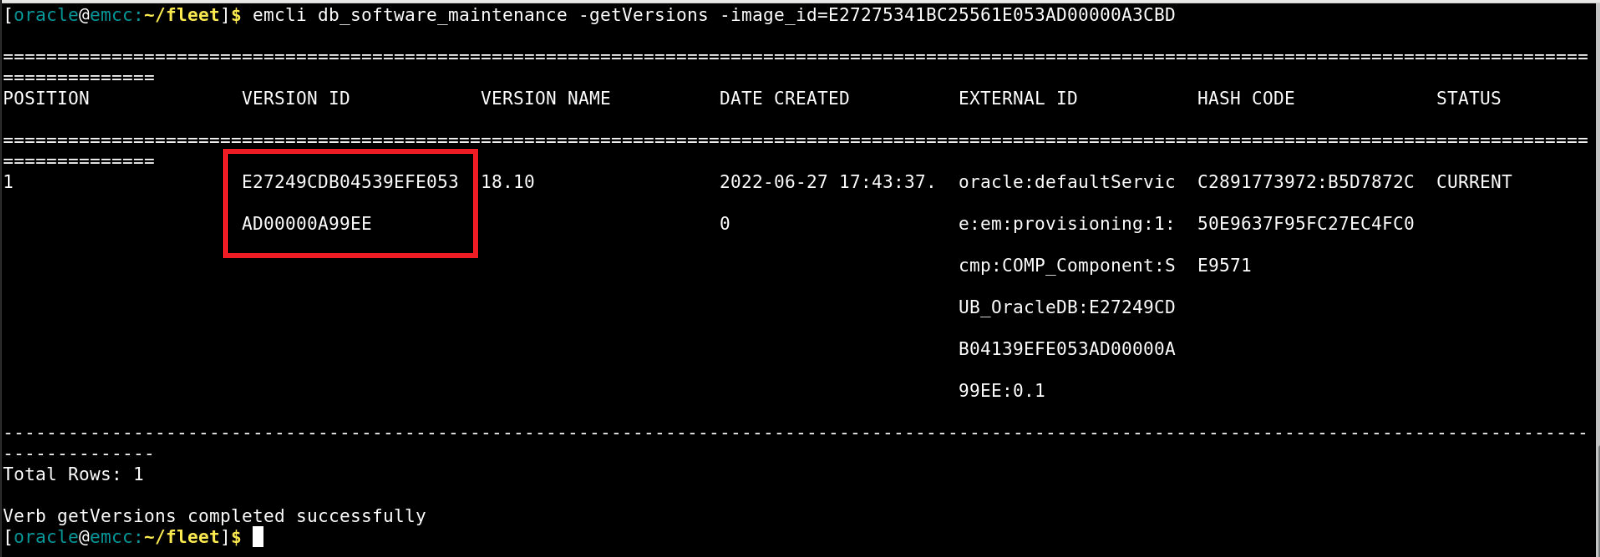
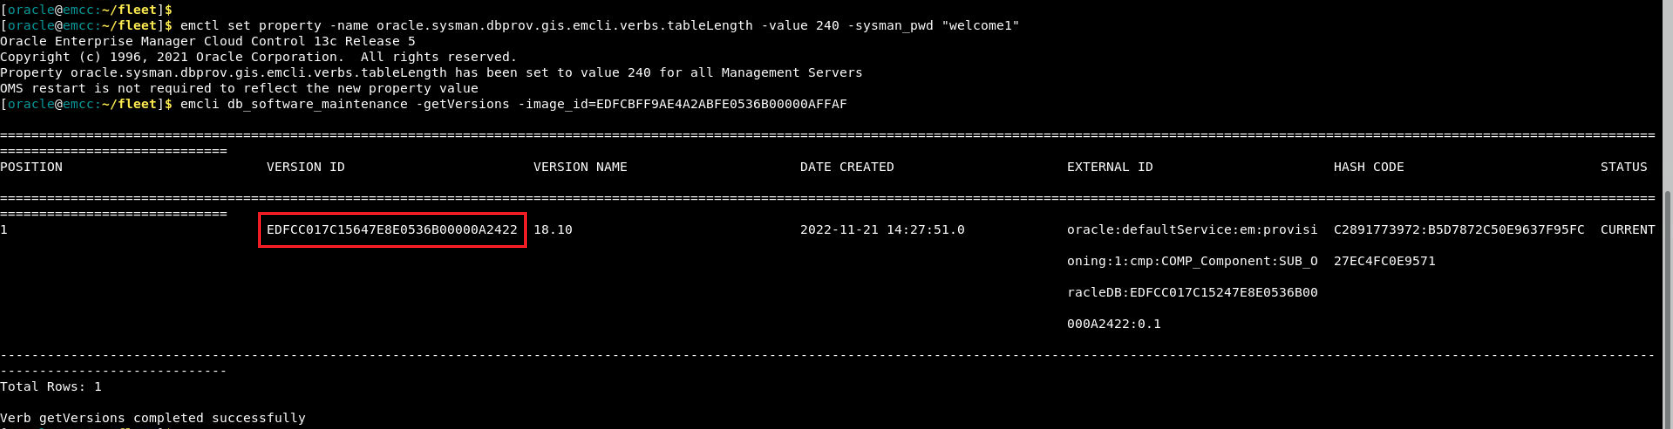
WMS ID 10001  (#115)
* RU07 changes

* RU07 changes

* RU07 changes

* feedback changes

* new screen captures

* new images

* new images

* new images

* new UI image capture

* Update new-deploy-1.png

* new images

* updates ru07

* RU07 - patch UI updates - new screenshots and instructions

* RU07 changes

* RU07 changes - new screenshots and instructions

* RU07 changes - new screenshots and instructions

* RU07 changes

* RU07 changes

* cleanup fix

* cleanup changes

* cleanup updates

* cleanup changes

* cleanupchanges

* cleaup changes

* Incorporated Shiva's comment

* Incorporaetd Shiva's feedback

* changes

* format changes

* format changes

* format changes

* format

* updates from shiva

* updates

* final changes

* all ru07 changes final

* ru07 changes

* ru07 changes

* formatting issues

* formatting changes

* formatting issues

* formatting changes

* formatting issues

* formatting issues

* image changes

* Suggestions from Harish

* Updates - Harish

* Updates - Harish

* Review updates - Harish

* Updates - Harish

* Updates - Harish

* updates as suggested by Harish

* Updates

* updates

* updates

* Feedback - Shiva

* Pull Request recommendations

* Pull Request Changes

* Images not visible

* Images restored

* Pull request changes

* image issue

* Pull request changes

* Pull request chnages

* Pull request changes

* Pull request changes

* Pull request changes

* Pull request changes

* Pull request changes

* Made changes as per Pull Request
[…]

diff --git a/enterprise-manager/emcc/em-fleet-maintenance-patching-ui/em-fleet-maintenance-patching-ui.md b/enterprise-manager/emcc/em-fleet-maintenance-patching-ui/em-fleet-maintenance-patching-ui.md
@@ -225,9 +225,21 @@ You will see the ***hr.subnet.vcn.oraclevcn.com*** container database has a plug
 
     ![](images/dp-1-completed.png "DP completed ")
 
-7. List Available Gold Images. Execute the following commands in the terminal to see the list of Gold Images available for deployment, locate ‘Tier \#2 SI DB Linux64*’* in the emcli command output:
+7. List Available Gold Images.
 
-    ```DP completed
+    Default window size of terminal will render output in multiple lines. Its is thus recommended to increase the terminal window size by clicking on maximize option.
+
+    ![](images/window_size.png "Maximize window ")
+
+    Execute the following command to increase the column width.
+    ```
+    <copy>emctl set property -name oracle.sysman.dbprov.gis.emcli.verbs.tableLength -value 210 -sysman_pwd "welcome1"</copy>
+    ```
+    ![](images/resize-width.png "resize command")
+
+    Now, we can execute the getimages command and it will return output in single line. Execute the following commands in the terminal to see the list of Gold Images available for deployment, locate ‘Tier \#2 SI DB Linux64*’* in the emcli command output:
+
+    ```
     <copy>emcli db_software_maintenance -getImages</copy>
     ```
 
@@ -237,9 +249,12 @@ You will see the ***hr.subnet.vcn.oraclevcn.com*** container database has a plug
 
     After retrieving a list of the available images, one can view a list of versions available for a specific image with the following command:
 
-    If the image id is same as the one highlighted above, you may use the below command
+    If the image id is same as the one highlighted above, you may use the below command. First, we will again resize the column width.
     ```
-    <copy>emcli db_software_maintenance -getVersions -image_id=E27275341BC25561E053AD00000A3CBD</copy>
+    <copy>emctl set property -name oracle.sysman.dbprov.gis.emcli.verbs.tableLength -value 240 -sysman_pwd "welcome1"</copy>
+    ```
+    ```
+    <copy>emcli db_software_maintenance -getVersions -image_id=EDFCBFF9AE4A2ABFE0536B00000AFFAF</copy>
     ```   
 
     else make changes in the below command and execute it.
@@ -261,7 +276,7 @@ You will see the ***hr.subnet.vcn.oraclevcn.com*** container database has a plug
     - Review and execute below emcli command. If the image id is same as the one highlighted above, you may use the below command:  
 
     ```
-    <copy>emcli db_software_maintenance -checkApplicability -image_id=E27275341BC25561E053AD00000A3CBD -target_list=hr.subnet.vcn.oraclevcn.com -target_type=oracle_database > /home/oracle/applicability.out</copy>
+    <copy>emcli db_software_maintenance -checkApplicability -image_id=EDFCBFF9AE4A2ABFE0536B00000AFFAF -target_list=hr.subnet.vcn.oraclevcn.com -target_type=oracle_database > /home/oracle/applicability.out</copy>
     ```
 
     else
